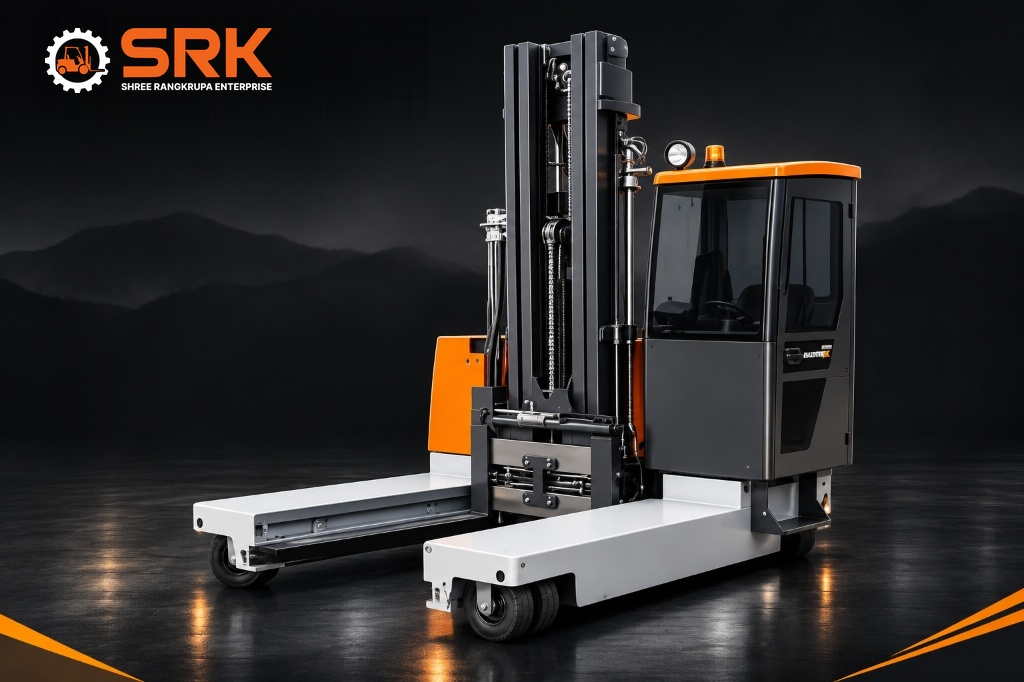
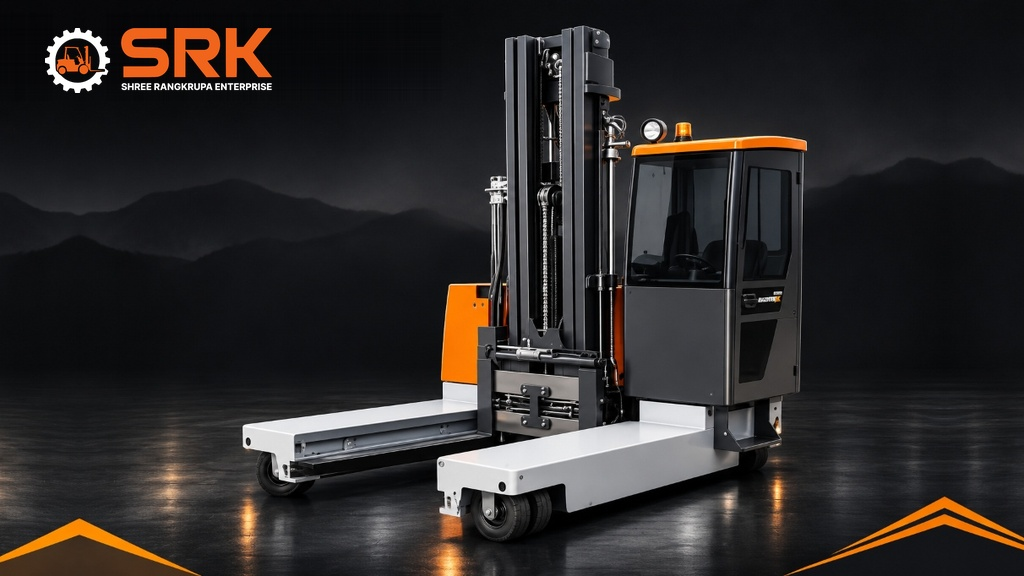
Fix white pillarboxing around sideloader photo by converting image to 16:9 and setting machinery canvas to object-fit cover with dark background

diff --git a/equipment.html b/equipment.html
@@ -147,9 +147,9 @@
 
         <!-- MODEL 01 -->
         <article class="service-card" style="display: flex; flex-direction: column;">
-          <div class="service-card-image" style="height: auto; aspect-ratio: 16 / 9; background: #FFFFFF;">
+          <div class="service-card-image" style="height: auto; aspect-ratio: 16 / 9; background: #0B0D12;">
             <img src="assets/images/fleet-model-telehandler.jpg" alt="FX-7000R TELE-BOOM Telescopic Forklift"
-              loading="lazy" style="width: 100%; height: 100%; object-fit: contain;" />
+              loading="lazy" style="width: 100%; height: 100%; object-fit: cover;" />
             <div class="service-number">01</div>
             <div class="service-badge">7.0 TON CLASS</div>
           </div>
@@ -180,9 +180,9 @@
         <!-- MODEL 02 -->
         <article class="service-card"
           style="display: flex; flex-direction: column; border-color: var(--primary-accent);">
-          <div class="service-card-image" style="height: auto; aspect-ratio: 16 / 9; background: #FFFFFF;">
+          <div class="service-card-image" style="height: auto; aspect-ratio: 16 / 9; background: #0B0D12;">
             <img src="assets/images/shree-rang-krupa-hero-cinematic.jpg" alt="FX-5000R PRO 5.0 Ton Heavy Diesel Forklift"
-              loading="lazy" style="width: 100%; height: 100%; object-fit: contain;" />
+              loading="lazy" style="width: 100%; height: 100%; object-fit: cover;" />
             <div class="service-number"
               style="background: var(--primary-accent); color: var(--primary-text); font-weight: 700;">02</div>
             <div class="service-badge highlight">POPULAR CHOICE • 5.0 TON</div>
@@ -213,9 +213,9 @@
 
         <!-- MODEL 03 -->
         <article class="service-card" style="display: flex; flex-direction: column;">
-          <div class="service-card-image" style="height: auto; aspect-ratio: 16 / 9; background: #FFFFFF;">
+          <div class="service-card-image" style="height: auto; aspect-ratio: 16 / 9; background: #0B0D12;">
             <img src="assets/images/fleet-model-compact.jpg" alt="FX-3500R REACH Compact Industrial Forklift"
-              loading="lazy" style="width: 100%; height: 100%; object-fit: contain;" />
+              loading="lazy" style="width: 100%; height: 100%; object-fit: cover;" />
             <div class="service-number">03</div>
             <div class="service-badge">3.5 TON CLASS</div>
           </div>
@@ -245,9 +245,9 @@
 
         <!-- MODEL 04 -->
         <article class="service-card" style="display: flex; flex-direction: column;">
-          <div class="service-card-image" style="height: auto; aspect-ratio: 16 / 9; background: #FFFFFF;">
+          <div class="service-card-image" style="height: auto; aspect-ratio: 16 / 9; background: #0B0D12;">
             <img src="assets/images/fleet-model-sideloader.jpg" alt="FX-16000R MULTI-TITAN Side-Loader Forklift"
-              loading="lazy" style="width: 100%; height: 100%; object-fit: contain;" />
+              loading="lazy" style="width: 100%; height: 100%; object-fit: cover;" />
             <div class="service-number">04</div>
             <div class="service-badge">16.0 TON TITAN</div>
           </div>

diff --git a/style.css b/style.css
@@ -1022,16 +1022,16 @@ ul {
   margin: 0 auto;
   border-radius: var(--radius-lg);
   overflow: hidden;
-  border: 1px solid var(--border-color);
-  box-shadow: 0 20px 50px rgba(0, 0, 0, 0.08);
+  border: 1px solid rgba(2, 45, 96, 0.15);
+  box-shadow: 0 20px 50px rgba(0, 0, 0, 0.15);
   transition: transform 0.5s cubic-bezier(0.16, 1, 0.3, 1), opacity 0.4s ease;
-  background: #FFFFFF;
+  background: #0B0D12;
 }
 
 .machinery-image {
   width: 100%;
   height: 100%;
-  object-fit: contain;
+  object-fit: cover;
   display: block;
   transition: transform 0.6s ease;
 }
@@ -3571,10 +3571,11 @@ img, svg, video, canvas, audio, iframe, embed, object {
     aspect-ratio: 16 / 9;
     border-radius: var(--radius-md);
     max-width: 100%;
+    background: #0B0D12;
   }
 
   .machinery-image {
-    object-fit: contain;
+    object-fit: cover;
     width: 100%;
     height: 100%;
   }
